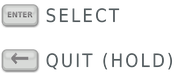
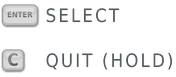
fix: unbind Backspace on keyboard
B is C only; its prompt and the title screen's quit hint show C.

Claude-Session: https://claude.ai/code/session_01WFfUmcDSYaKq1DZabSYan2

Changed region(s): [[0.0284, 0.6234, 0.2273, 0.961]]

diff --git a/src/kbm_binds.cpp b/src/kbm_binds.cpp
@@ -9,8 +9,8 @@
 // mouse look, mouse 1 fire, mouse 2 aim down sight, G grenade, 3 switch grenade, Q take down, Ctrl sprint, 1 & 2
 // cycle weapon, C stance, Shift walk, R reload, Space jump/mantle, E cover/dash to cover, 4 silencer, X rate of fire,
 // Tab phone, Esc pause, F use. The pad's X is both use and reload (+usereload), so R and F both press it. Shift walks
-// through SDK patch 0017 (keybind_walk: the stick keys push the stick part way, mnk_walk_scale). Menus: Return and
-// Backspace as A and B too, arrows as the D-pad. The right stick has no keys: the mouse turns the view
+// through SDK patch 0017 (keybind_walk: the stick keys push the stick part way, mnk_walk_scale). Menus: Return as A
+// too (B is C only: Backspace unbound, user 24 Nov), arrows as the D-pad. The right stick has no keys: the mouse turns the view
 // (mouse_look.cpp). Only binds still at the SDK's compiled-in default are set, so the command line, the config file
 // and the Rebind screen win.
 
@@ -32,7 +32,7 @@ void SetDefaults() {
       {"keybind_rstick_left", ""},          {"keybind_rstick_right", ""},
       {"keybind_right_trigger", "LMB"},     {"keybind_left_trigger", "RMB"},
       {"keybind_right_shoulder", "G"},      {"keybind_left_shoulder", "1,2"},
-      {"keybind_a", "E,Return"},            {"keybind_b", "C,Backspace"},
+      {"keybind_a", "E,Return"},            {"keybind_b", "C"},
       {"keybind_x", "R,F"},                {"keybind_y", "Space"},
       {"keybind_dpad_up", "X,Up"},          {"keybind_dpad_down", "4,Down"},
       {"keybind_dpad_left", "3,Left"},      {"keybind_dpad_right", "Right"},

diff --git a/tools/make_quit_hint.py b/tools/make_quit_hint.py
@@ -166,7 +166,7 @@ if __name__ == "__main__":
     # The title screen's (src/menu_quit.cpp): A SELECT over B QUIT (HOLD), and the PlayStation pair.
     prompts([("A", "SELECT"), ("B", "QUIT (HOLD)")], out + "/start_prompts.png")
     prompts([("X", "SELECT"), ("O", "QUIT (HOLD)")], out + "/start_prompts_ps.png")
-    # Keyboard (23 Nov): Enter selects, Backspace held quits (the B bind, src/kbm_binds.cpp); the menu-style keys.
+    # Keyboard: Enter selects, C held quits (B is C only since 24 Nov, src/kbm_binds.cpp); the menu-style keys.
     kbm = (sys.argv[2] if len(sys.argv) > 2 else "prompts/kbm") + "/"
-    key_prompts([(kbm + "km_enter.png", "SELECT"), (kbm + "km_backspace.png", "QUIT (HOLD)")],
+    key_prompts([(kbm + "km_enter.png", "SELECT"), (kbm + "km_c.png", "QUIT (HOLD)")],
                 out + "/start_prompts_kbm.png")

diff --git a/HANDOFF.md b/HANDOFF.md
@@ -590,7 +590,7 @@ load: CP idle (game) vs textures (renderer) in the slow frames.
 
 User shared the PC manual's "Movement Controls" page. `src/kbm_binds.cpp` now matches it: WASD, mouse, Mouse 1 fire
 (RT), Mouse 2 ADS (LT), G grenade (RB), 3 switch grenade (D-pad left), Q take down (RS), **Ctrl sprint** (LS, was
-Shift), **1 & 2 cycle weapon** (LB, was F/1/2/MMB), C stance (B; Backspace in menus, Ctrl removed), **Shift walk** (new
+Shift), **1 & 2 cycle weapon** (LB, was F/1/2/MMB), C stance (B; Ctrl removed; Backspace unbound later the same morning, so B is C only, menus too), **Shift walk** (new
 SDK patch `0017-mnk-walk-key`: keybind_walk, mnk_walk_scale 0.4, build_sdk own17), R reload and **F use** (both X,
 +usereload), Space jump (Y), E cover (A), 4 silencer (D-pad down), X rate of fire (D-pad up), Tab phone (BACK), Esc
 pause (START). The manual's phone submenus on the arrow keys are not mapped (on the pad they are the triggers; the
